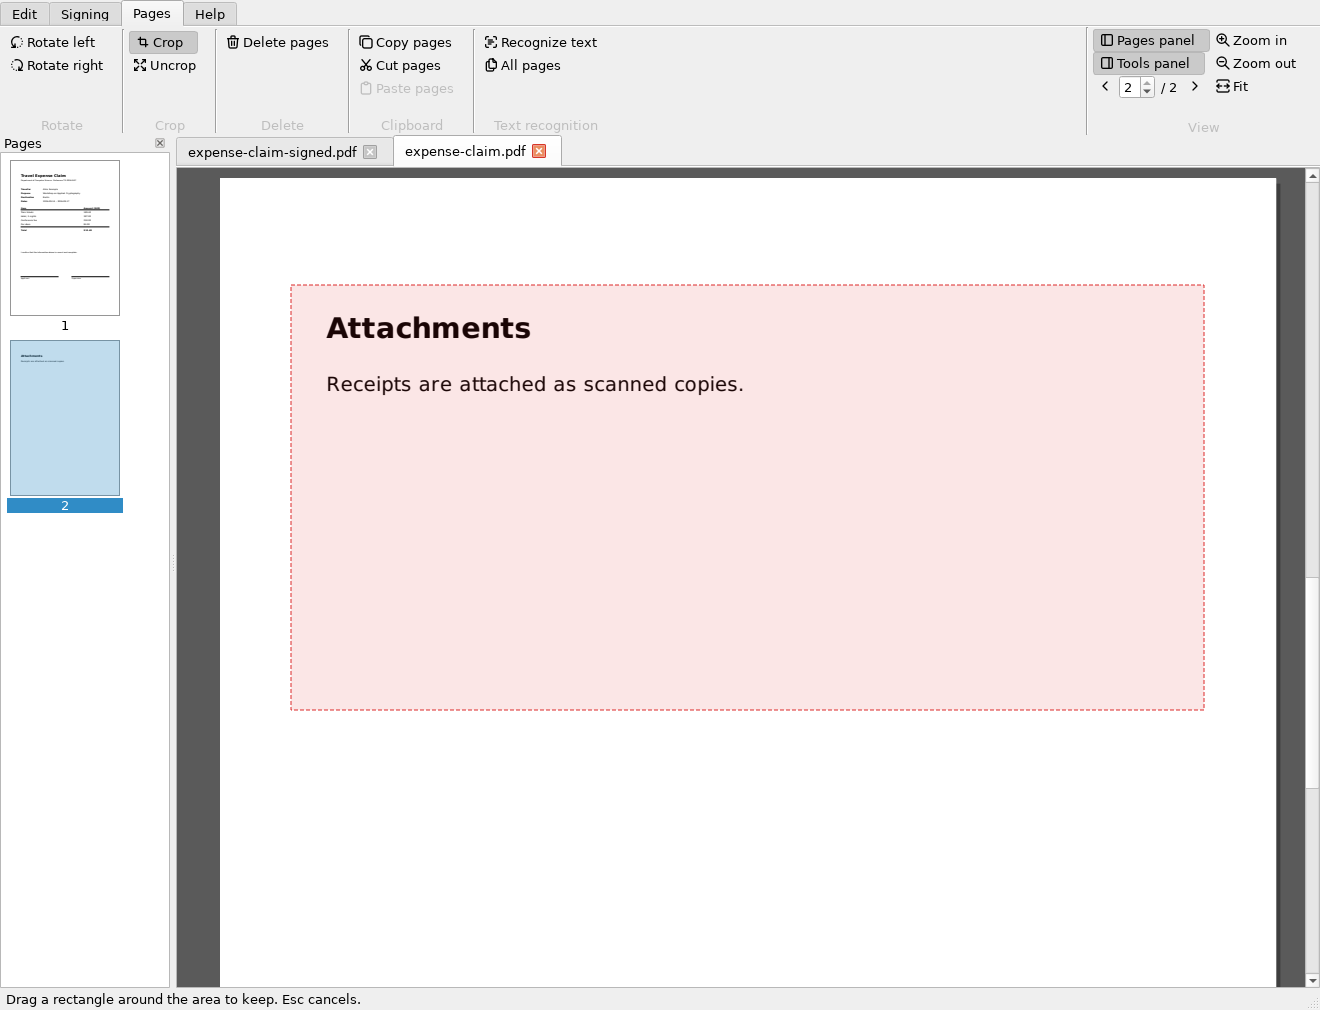
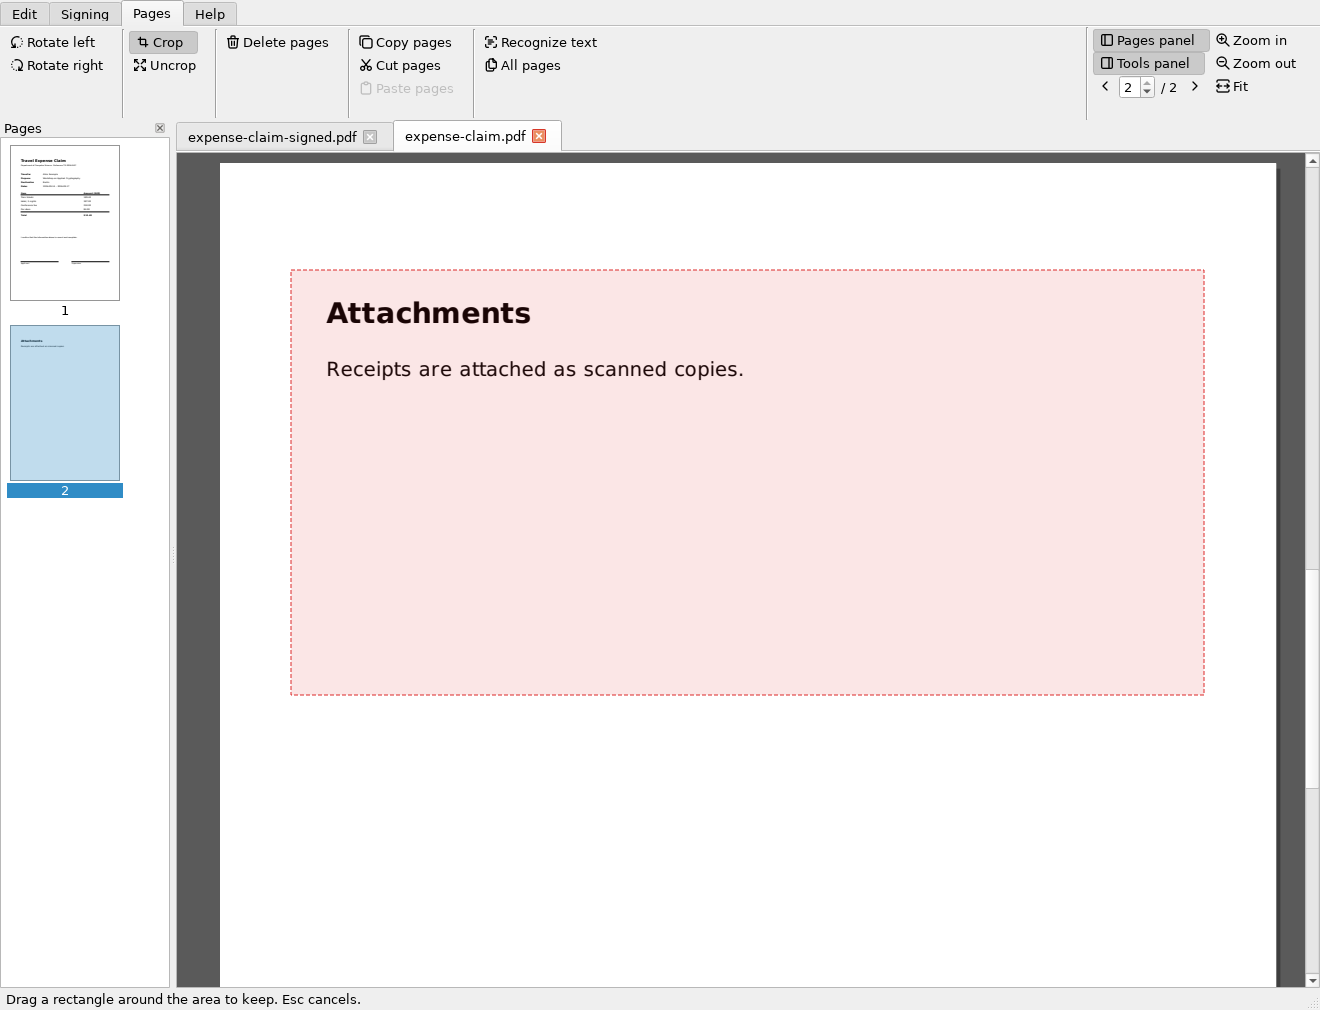
Ribbon: no group captions
The line of group names under the buttons is gone (the separators
group them); the ribbon is 15 px lower. Each group keeps its name as
the accessible name for screen readers.

diff --git a/src/slim_pdf/gui/ribbon.py b/src/slim_pdf/gui/ribbon.py
@@ -17,7 +17,6 @@ from PySide6.QtWidgets import (
     QApplication,
     QFrame,
     QHBoxLayout,
-    QLabel,
     QScrollArea,
     QSizePolicy,
     QStackedWidget,
@@ -78,7 +77,8 @@ CHECKED_STYLE = ("QToolButton { padding: 1px 3px; border: 1px solid transparent;
 
 class RibbonGroup(QFrame):
     """Small buttons (text beside the icon) stacked in columns of three, or
-    large ones (text under it) in a row, with the group's name underneath."""
+    large ones (text under it) in a row. Its name isn't shown (the
+    separators group the buttons); screen readers get it."""
 
     def __init__(self, title: str):
         super().__init__()
@@ -89,10 +89,8 @@ class RibbonGroup(QFrame):
         self.row = QHBoxLayout()
         self.row.setSpacing(2)
         outer.addLayout(self.row, 1)
-        self.title = QLabel(title)
-        self.title.setAlignment(Qt.AlignHCenter)
-        self.title.setEnabled(False)  # greyed, as a caption
-        outer.addWidget(self.title)
+        self.name = title
+        self.setAccessibleName(title)
         self._column: QVBoxLayout | None = None
 
     def add(self, action: QAction, large: bool = False) -> QToolButton:

diff --git a/tests/test_gui.py b/tests/test_gui.py
@@ -1552,7 +1552,7 @@ def test_ribbon_tabs_and_about(window, monkeypatch):
     assert view == [window.pages_dock.toggleViewAction(), window.tools_panel_act,
                     window.prev_act, window.next_act,
                     window.zoom_in_act, window.zoom_out_act, window.fit_act]
-    assert rb.view_controls.title.text() == "View"
+    assert rb.view_controls.name == "View"
     assert rb.view_controls.isAncestorOf(window.page_spin)
     for i in range(rb.count()):
         rb.setCurrentIndex(i)
